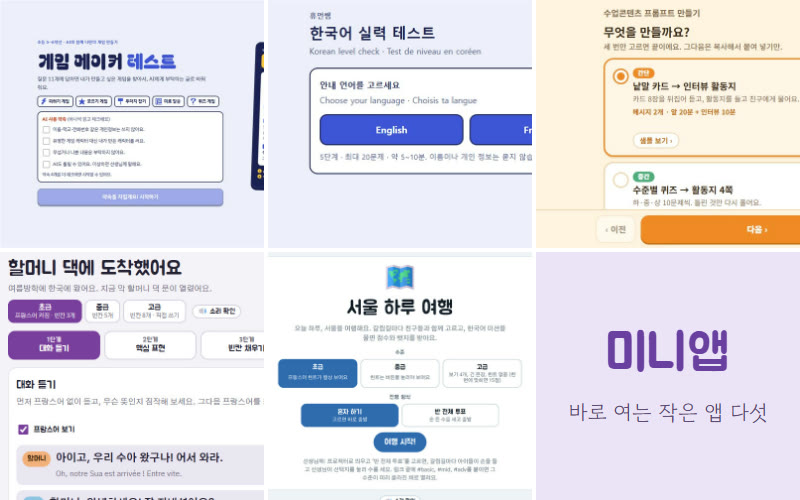
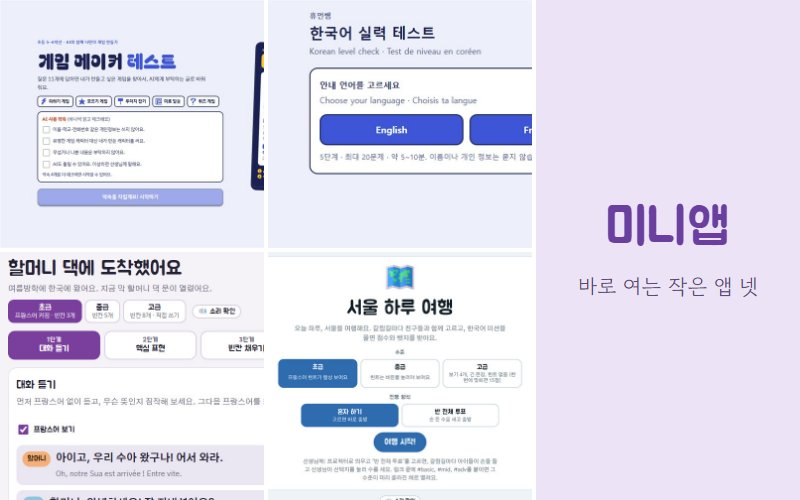
수업콘텐츠 프롬프트 만들기 삭제: 미니앱 카드·tags·썸네일, 샘플 3종 묶음 링크 뺌, 미니앱 표지 넷으로, data.js?v=20261026a

diff --git a/data.js b/data.js
@@ -98,12 +98,12 @@ window.SITE = {
           thumb: 'assets/thumbs/app-oneshot.jpg', shot: 'assets/thumbs/app-oneshot.jpg' },
         /* 미니앱 — 묶음 카드 하나에 작은 앱 다섯(children). 다섯 카드는 parent: 'mini-apps'로 앱 목록에서 숨는다. */
         { slug: 'mini-apps', name: '미니앱', status: '열림',
-          one: '설치 없이 바로 여는 작은 앱 다섯 개',
+          one: '설치 없이 바로 여는 작은 앱 네 개',
           url: '', label: null, unit: '개', pick: '앱 고르기',
-          note: '다섯 앱 모두 휴대폰·PC 브라우저에서 열려요. 아래에서 앱을 골라요.',
-          intro: ['휴먼쌤이 만든 작은 웹 앱 모음이에요. 초등 5~6학년이 AI와 함께 나만의 게임을 만드는 게임 메이커, 해외 학습자용 한국어 실력 테스트, 한글학교 선생님이 수업콘텐츠를 만들 때 쓰는 수업콘텐츠 프롬프트 만들기, 그리고 한글학교 수업에서 바로 쓰는 역할극 "할머니 댁에 도착했어요"와 게임 "서울 하루 여행"이 들어 있어요.'],
+          note: '네 앱 모두 휴대폰·PC 브라우저에서 열려요. 아래에서 앱을 골라요.',
+          intro: ['휴먼쌤이 만든 작은 웹 앱 모음이에요. 초등 5~6학년이 AI와 함께 나만의 게임을 만드는 게임 메이커, 해외 학습자용 한국어 실력 테스트, 그리고 한글학교 수업에서 바로 쓰는 역할극 "할머니 댁에 도착했어요"와 게임 "서울 하루 여행"이 들어 있어요.'],
           thumb: 'assets/thumbs/app-mini-apps.jpg', shot: '',
-          children: ['game-maker', 'korean-test', 'prompt-set', 'grandma-visit', 'seoul-trip'] },
+          children: ['game-maker', 'korean-test', 'grandma-visit', 'seoul-trip'] },
         { slug: 'game-maker', name: '게임 메이커', status: '열림', parent: 'mini-apps',
           one: '질문에 답하면 AI에게 부탁할 글과 카드가 나와요',
           url: 'https://humanssaem-apps.pages.dev/apps/game-maker/',
@@ -116,13 +116,12 @@ window.SITE = {
           label: '한국어 실력 테스트 열기', note: '설치 없이 휴대폰·PC 브라우저에서 열려요.',
           intro: ['한국어 실력을 가볍게 확인해 보는 테스트예요. 5단계, 최대 20문제로 5~10분쯤 걸려요. 안내는 영어나 프랑스어로 골라 볼 수 있고, 이름이나 개인 정보는 묻지 않아요.'],
           thumb: 'assets/thumbs/app-koreantest.jpg', shot: 'assets/thumbs/app-koreantest.jpg' },
-        /* 한글학교 수업콘텐츠 샘플 3종 — 묶음 카드 하나에 세 콘텐츠(children). 각 콘텐츠는 콘텐츠 주소 + 활동지 PDF(worksheet). 메시지로 만든 과정은 '수업콘텐츠 프롬프트 만들기'. */
+        /* 한글학교 수업콘텐츠 샘플 3종 — 묶음 카드 하나에 세 콘텐츠(children). 각 콘텐츠는 콘텐츠 주소 + 활동지 PDF(worksheet). */
         { slug: 'lesson-samples', name: '한글학교 수업콘텐츠 샘플 3종', status: '열림',
           one: '카페에서 주문하기 — 폰으로 하는 콘텐츠 셋과 활동지 PDF',
           url: '', label: null,
           note: '세 콘텐츠는 휴대폰·PC 브라우저에서 열리고, 활동지는 각 콘텐츠 페이지에서 PDF로 내려받아 인쇄해요.',
-          intro: ['프랑스 한글학교 선생님들을 위한 학생참여 수업콘텐츠 샘플이에요. 주제는 카페에서 주문하기 하나로, 간단·중간·복잡 세 벌이 있어요. 한 벌은 폰으로 하는 콘텐츠와 그에 맞는 활동지(PDF)로 되어 있고, 모든 자료 안에 하·중·상이 있어 수준이 다른 학생이 각자 골라요. 어린이와 어른이 섞인 반을 생각하고 만들었어요.', '세 샘플은 모두 무료 클로드(소넷)에 메시지 2~4개를 차례로 붙여 넣어 만든 거예요. 같은 방법으로 우리 반 주제로 직접 만들려면 아래 도구를 써요.'],
-          links: [{ label: '수업콘텐츠 프롬프트 만들기 (선생님용)', url: '#/app/prompt-set' }],
+          intro: ['프랑스 한글학교 선생님들을 위한 학생참여 수업콘텐츠 샘플이에요. 주제는 카페에서 주문하기 하나로, 간단·중간·복잡 세 벌이 있어요. 한 벌은 폰으로 하는 콘텐츠와 그에 맞는 활동지(PDF)로 되어 있고, 모든 자료 안에 하·중·상이 있어 수준이 다른 학생이 각자 골라요. 어린이와 어른이 섞인 반을 생각하고 만들었어요.'],
           thumb: 'assets/thumbs/app-lesson-samples.jpg', shot: '',
           children: ['lesson-card', 'lesson-quiz', 'lesson-roleplay'] },
         { slug: 'lesson-card', name: '카페 메뉴 카드 — 간단', status: '열림',
@@ -143,13 +142,6 @@ window.SITE = {
           label: '카페 역할극 열기', note: '휴대폰·PC 브라우저에서 열려요. 활동지는 아래에서 PDF로 내려받아요.',
           intro: ['45분 한 차시. "듣기"에서 하·중·상 대화를 말풍선으로 듣고 따라 말하고, "역할극 진행판"에서 짝과 역할을 정해 번호 카드 10장을 따라 번갈아 말해요(말했으면 "했어요"). "주문 만들기"에서 메뉴·수량·온도·포장을 골라 주문 문장을 만들고 점원 답과 값을 들어요.', '활동지 "카페 역할극 활동지"(A4 1쪽, 학생용): 메뉴판, 손님 주문 받아 적기, 역할극 체크, 오늘 말한 문장 두 개.'],
           thumb: 'assets/thumbs/app-lesson-roleplay.jpg', shot: '', worksheet: 'assets/worksheets/lesson-roleplay-1p.pdf', sheetNote: 'A4 1쪽 · PDF', parent: 'lesson-samples' },
-        { slug: 'prompt-set', name: '수업콘텐츠 프롬프트 만들기', status: '열림', parent: 'mini-apps',
-          one: '세 번 고르면, 무료 클로드에 붙여 넣을 메시지가 순서대로 나와요',
-          url: 'https://humanssaem-lesson-samples.pages.dev/prompt-set/',
-          label: '프롬프트 만들기 열기', note: '선생님용이에요. 휴대폰 브라우저에서 열고, 나온 메시지를 복사해 클로드 앱(무료)에 붙여 넣어요. 저장·서버 없음.',
-          intro: ['한글학교 선생님이 수업콘텐츠 샘플 3종과 같은 것을 우리 반 주제로 직접 만들 때 쓰는 도구예요. 틀(간단·중간·복잡), 학생(어린이와 어른 섞임·어린이·어른), 주제(카페·과일·교실 물건·가족·동물)를 고르면, 무료 클로드(소넷)에 차례로 붙여 넣을 메시지 2~4개가 "따라 하기" 순서로 나와요. 한 칸 끝나면 "했어요"를 눌러 다음 칸으로 넘어가요.', '카페 주제로 만든 메시지는 샘플 3종을 만든 것과 똑같아요. 과일·교실 물건·가족·동물은 간단 틀에서 고를 수 있어요.'],
-          links: [{ label: '한글학교 수업콘텐츠 샘플 3종', url: '#/app/lesson-samples' }],
-          thumb: 'assets/thumbs/app-prompt-set.jpg', shot: '' },
         { slug: 'grandma-visit', name: '할머니 댁에 도착했어요', status: '열림', parent: 'mini-apps',
           one: '할머니와 수아의 대화로 듣기·표현·빈칸·짝 활동 4단계를 해요',
           url: 'https://humanssaem-apps.pages.dev/apps/grandma-visit/',
@@ -441,7 +433,6 @@ window.SITE.tags = {
   'lesson-card': ['간단', '앞 20분 + 인터뷰 10분', '카드 8장', '활동지 1쪽'],
   'lesson-quiz': ['중간', '뒤 25분', '수준마다 10문제', '활동지 1쪽'],
   'lesson-roleplay': ['복잡', '45분 한 차시', '듣기·진행판·주문 만들기', '활동지 1쪽'],
-  'prompt-set': ['선생님용', '무료 클로드(소넷)', '메시지 2~4개', '복사해서 붙여 넣기'],
   'mini-apps': ['앱 다섯', '설치 없음', '휴대폰·PC'],
   'grandma-visit': ['한글학교', '4단계', '초급·중급·고급', '짝 활동', '프랑스어 뜻'],
   'seoul-trip': ['한글학교', '갈림길 넷', '초급·중급·고급', '반 전체 투표', '여행기 쓰기'],

diff --git a/index.html b/index.html
@@ -203,7 +203,7 @@ button.enter{width:100%;border:0;font-weight:400;cursor:pointer}
 </div>
 
 <!-- data.js를 고치면 아래 v= 숫자를 올린다(브라우저·CDN이 옛 내용을 기억하지 않게) -->
-<script src="data.js?v=20261025b"></script>
+<script src="data.js?v=20261026a"></script>
 <script>
 (function(){
   var S = window.SITE, main = document.getElementById('main'), ORDER = ['cloud','app','world'];

diff --git a/CLAUDE.md b/CLAUDE.md
@@ -53,4 +53,5 @@
 - 이어서(2026-10-24 밤, PC, 같은 브랜치): 휴먼쌤 "human-teacher.com/hangeuloneshot 을만들어주고, 여기에 https://humanssaem-hangeul-oneshot.pages.dev/ 이걸 연결해줘" → 짧은 주소를 `_redirects`로 시작(직접 만드는 단축 사이트·유료 단축 서비스 대신 가진 도메인 뒤에 이름을 붙이는 무료 방식, 휴먼쌤 "그냥 기존 플랫폼 이용할게"). 첫 줄 `/hangeuloneshot` → 한글원샷. Cloudflare Pages에 올려 공개 주소에서 302 넘김 확인. 이어서(10-25 새벽) 휴먼쌤 "주소하나 더 만들어줘 … 이걸 human-teacher.com/hangeulworld로" → `/hangeulworld` → 프랑스 한글학교 로비(humanssaem-hangul-france.pages.dev), 302 확인. 이어서(00:55) 휴먼쌤 "humanssaem-hangul-france.pages.dev/admin/ 이것도 human-teacher.com/hangeulworld/admin으로" → `/hangeulworld/admin` → 로비 관리 화면(`/admin/`), 302 확인. 미니앱 판(`data.js?v=20261025a`, 아래 줄)은 휴먼쌤 확인 전이라 올리지 않고 공개판(20261024i) 묶음에 `_redirects`만 바꿔 올렸다(`앱개발부\배포묶음\human-teacher\_redirects`도 같은 내용으로 맞춤).
 - 이어서(2026-10-25, PC): 휴먼쌤 "'미니앱' 버튼을 만들어주고 거기안에 '게임메이거' '한국어실력테스트' '수업콘텐츠 프롬프트' 를 넣어줘 그리고 기존의 과학실험앱 5개는 이미 '월드' 에 들어있으니까 삭제해주고 그리고 이 '미니앱'버튼에 이 2가지 앱도 추가해줘" → 앱 칸에 묶음 카드 '미니앱'(`mini-apps`, children game-maker·korean-test·prompt-set·grandma-visit·seoul-trip, 표지 원본 `_work/thumb-mini-apps.html`). 새 앱 둘(할머니 댁에 도착했어요·서울 하루 여행)은 휴먼쌤이 준 HTML을 `apps` 저장소에 넣어 humanssaem-apps.pages.dev/apps/에 올림. 앱 칸의 과학 실험실 다섯 카드는 뺌(월드 'WebXR 과학 실험실'에 그대로 있음, 옛 주소 `#/app/air` 등은 앱 목록으로 열림). 묶음 카드에 `unit`(모음 · N개)·`pick`(버튼 글) 칸을 더함. 앱 목록·묶음·소개 페이지 390px 가로 넘침 없음, 깨진 그림 없음. `data.js?v=20261025a`. 휴먼쌤 "왜 막혔어 반영해" → Cloudflare Pages에 올림(공개판 index·data가 묶음과 같은 파일, 짧은 주소 셋 302 그대로). 배포 묶음 `앱개발부\배포묶음\human-teacher`는 `_redirects`까지 넷을 담는다 — 이 폴더로 올리면 짧은 주소도 산다.
 - 이어서(2026-10-25, PC): 휴먼쌤 "'휴먼쌤 XR실험실' 버튼 하나 만들고, 거기다가 월드 1 VR — 휴먼쌤이 누구인가이랑 융합광장, 로봇 학교 교실 넣어줘. 그리고 기존의 'AI가 지은 섬'은 이름을 'AI타운'으로 바꾸기로 한거 아닌가?" → 월드에 묶음 카드 '휴먼쌤 XR실험실'(`xr-lab`, children vr1·fusion-plaza·robot-classroom, 표지 원본 `_work/thumb-xr-lab.html`). 카드 'AI가 지은 섬'을 'AI타운'으로(10-15 휴먼쌤 "AI 섬 이름은 'AI타운'으로 결정", 브랜드북 H9), 광장 소개 글의 섬 이름도. 월드 페이지 자체(humanssaem-world.pages.dev/ai/ 제목)는 아직 'AI가 지은 섬' — XR개발부 몫. `data.js?v=20261025b`.
+- 이어서(2026-10-26, PC): 휴먼쌤 "이 프롬프트 만들기는 그냥 전부다 삭제해줘" → 미니앱 묶음에서 `prompt-set` 카드·tags·썸네일을 빼고(미니앱 넷, 표지 다시 만듦), 샘플 3종 묶음의 '프롬프트 만들기' 링크와 문장도 뺌. humanssaem-lesson-samples의 `/prompt-set/`도 내림. `data.js?v=20261026a`.
 - 남은 일: ⓪ 노션 예비 사이트와 내용이 갈리면 이 저장소(`data.js`)가 정본. 상황극 대사·프랑스어 번역을 원어민이 확인하면 `warn`의 '확인 전' 문장을 뺀다. 4편 택시는 한국어·프랑스어 장면 내내 앞유리에 AI 글자가 보여(표지는 '따라 말하기' 화면으로 피함) 다시 만들지는 휴먼쌤 결정 ① 책·워크북·강의노트가 나오면 '준비 중'을 '열림'+주소로 ② GitHub이 풀리면 이 커밋들을 올린다. 사이트를 Cloudflare에 둘지 GitHub Pages로 돌릴지는 그때 휴먼쌤이 정한다(지금 도메인은 Cloudflare로 가 있어 GitHub Pages 쪽 `CNAME`은 쓰이지 않음)
